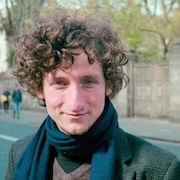
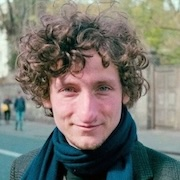
pages updated

diff --git a/index.html b/index.html
@@ -74,7 +74,7 @@
         <div class="speaker-grid">
           <article class="speaker-card">
               <img class="speaker-photo" src="images/speakers/rahim-entezari.jpg" alt="Rahim Entezari">
-            <div class="speaker-copy"><p class="speaker-track">Invited Vision Talk · Efficiency</p><h3>Rahim Entezari</h3><p>Starting something new ..., (ex-StabilityAI, ex-Wayve), UK</p></div>
+            <div class="speaker-copy"><p class="speaker-track">Invited Vision Talk · Efficiency</p><h3>Rahim Entezari</h3><p>Starting something new ... (ex-StabilityAI, ex-Wayve), UK</p></div>
           </article>
           <article class="speaker-card">
             <img class="speaker-photo" src="images/speakers/katharina-eggensperger.jpg" alt="Katharina Eggensperger">
